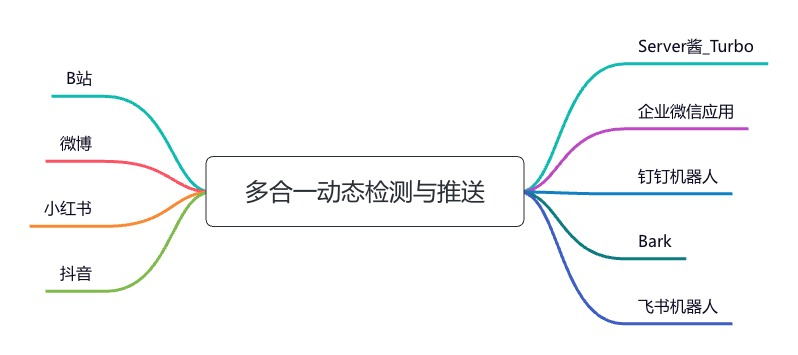
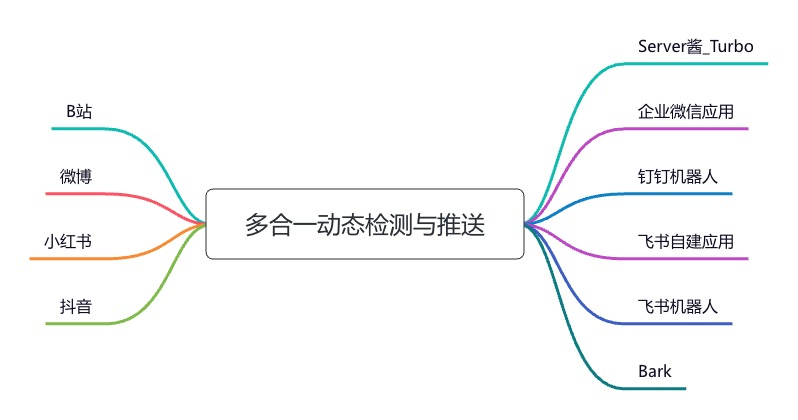
feat(push): 推送支持"飞书自建应用"

Changed region(s): [[0.0301, 0.093, 0.9624, 0.8366], [0.7519, 0.8366, 0.9323, 0.9296], [0.7218, 0.8056, 0.7519, 0.8986]]

diff --git a/push_channel/feishu_apps.py b/push_channel/feishu_apps.py
@@ -1,0 +1,140 @@
+import json
+import mimetypes
+import os
+import uuid
+
+from requests_toolbelt import MultipartEncoder
+
+from common import util
+from common.logger import log
+from . import PushChannel
+
+
+class FeishuApps(PushChannel):
+    def __init__(self, config):
+        super().__init__(config)
+        self.app_id = str(config.get("app_id", ""))
+        self.app_secret = str(config.get("app_secret", ""))
+        self.receive_id_type = str(config.get("receive_id_type", ""))
+        self.receive_id = str(config.get("receive_id", ""))
+
+    def push(self, title, content, jump_url=None, pic_url=None):
+        tenant_access_token = self._get_tenant_access_token()
+        if tenant_access_token is None:
+            return None
+        url = f"https://open.feishu.cn/open-apis/im/v1/messages?receive_id_type={self.receive_id_type}"
+        headers = {
+            "Content-Type": "application/json",
+            "Authorization": f"Bearer {tenant_access_token}"
+        }
+        card_elements = [
+            {
+                "tag": "markdown",
+                "content": content
+            }
+        ]
+        if pic_url is not None:
+            img_key = self._get_img_key(pic_url)
+            if img_key is not None:
+                card_elements.append({
+                    "alt": {
+                        "content": "",
+                        "tag": "plain_text"
+                    },
+                    "img_key": img_key,
+                    "tag": "img"
+                })
+        card_elements.append({
+            "tag": "action",
+            "actions": [
+                {
+                    "tag": "button",
+                    "text": {
+                        "tag": "plain_text",
+                        "content": "点我跳转"
+                    },
+                    "type": "primary",
+                    "url": jump_url
+                }
+            ]
+        })
+        content = {
+            "config": {
+                "wide_screen_mode": True
+            },
+            "header": {
+                "template": "blue",
+                "title": {
+                    "content": title,
+                    "tag": "plain_text"
+                }
+            },
+            "elements": card_elements
+        }
+        body = {
+            "receive_id": self.receive_id,
+            "msg_type": "interactive",
+            "content": json.dumps(content)
+        }
+        response = util.requests_post(url, self.name, headers=headers, data=json.dumps(body))
+        push_result = "成功" if util.check_response_is_ok(response) else "失败"
+        log.info(f"【推送_{self.name}】{push_result}")
+
+    def _get_img_key(self, pic_url: str):
+        # 下载图片
+        response = util.requests_get(pic_url)
+        if not util.check_response_is_ok(response):
+            log.error(f"【推送_{self.name}】下载图片{pic_url}失败")
+            return None
+        content_type = response.headers['Content-Type']
+        extension = mimetypes.guess_extension(content_type)
+        # 如果无法从内容类型推断扩展名，则默认使用.jpg
+        if not extension:
+            extension = '.jpg'
+        file_path = str(uuid.uuid4()) + extension
+        with open(file_path, 'wb') as file:
+            file.write(response.content)
+        log.info(f"【推送_{self.name}】下载图片{pic_url}成功")
+
+        # 上传图片
+        tenant_access_token = self._get_tenant_access_token()
+        if tenant_access_token is None:
+            # 删除本地文件
+            os.remove(file_path)
+            return None
+
+        url = "https://open.feishu.cn/open-apis/im/v1/images"
+        multi_form = MultipartEncoder({
+            'image_type': 'message',
+            'image': (open(file_path, 'rb'))
+        })
+        headers = {
+            'Authorization': f"Bearer {tenant_access_token}",
+            'Content-Type': multi_form.content_type,
+        }
+        response = util.requests_post(url, self.name, headers=headers, data=multi_form)
+        if util.check_response_is_ok(response):
+            # 删除本地文件
+            os.remove(file_path)
+            return response.json()["data"]["image_key"]
+        else:
+            log.error(f"【推送_{self.name}】上传图片失败")
+            # 删除本地文件
+            os.remove(file_path)
+            return None
+
+    def _get_tenant_access_token(self):
+        url = f"https://open.feishu.cn/open-apis/auth/v3/tenant_access_token/internal/"
+        headers = {
+            "Content-Type": "application/json; charset=utf-8"
+        }
+        body = {
+            "app_id": self.app_id,
+            "app_secret": self.app_secret
+        }
+        response = util.requests_post(url, self.name, headers=headers, data=json.dumps(body))
+        if util.check_response_is_ok(response):
+            return response.json()["tenant_access_token"]
+        else:
+            log.error(f"【推送_{self.name}】获取tenant_access_token失败")
+            return None

diff --git a/push_channel/__init__.py b/push_channel/__init__.py
@@ -2,6 +2,7 @@ from ._push_channel import PushChannel
 from .bark import Bark
 from .demo import Demo
 from .dingtalk_bot import DingtalkBot
+from .feishu_apps import FeishuApps
 from .feishu_bot import FeishuBot
 from .server_chan_turbo import ServerChanTurbo
 from .wecom_apps import WeComApps
@@ -17,6 +18,8 @@ def get_push_channel(config):
         return WeComApps(config)
     if channel_type == "dingtalk_bot":
         return DingtalkBot(config)
+    if channel_type == "feishu_apps":
+        return FeishuApps(config)
     if channel_type == "feishu_bot":
         return FeishuBot(config)
     if channel_type == "bark":
